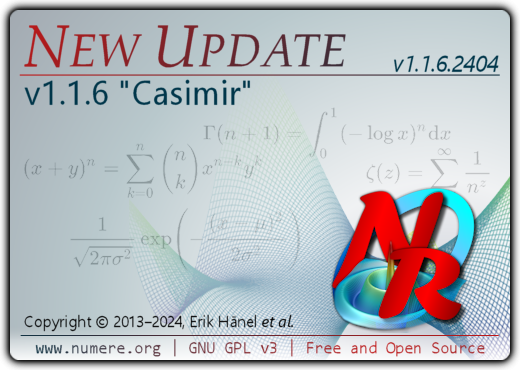
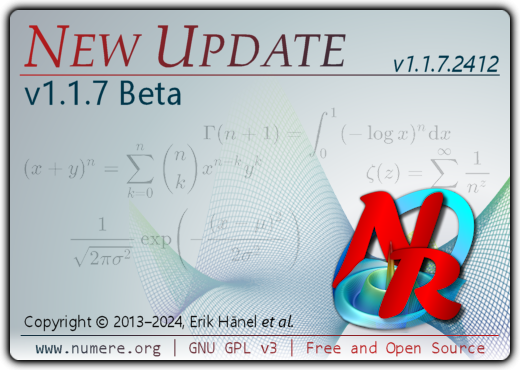
Update files for new release

Changed region(s): [[0.1538, 0.2081, 0.4923, 0.2973], [0.8923, 0.1486, 0.9846, 0.2081], [0.8308, 0.1486, 0.8615, 0.2081]]

diff --git a/files/change_summary_rc.md b/files/change_summary_rc.md
@@ -2,39 +2,39 @@
 
 ## UI changes
 
-- Added feature of autowrapping for comments if line indicator is active.
-- Using the new file dialog and selecting "App", one can create a custom app from some predefined templates
-- The terminal rendering speed was increased, it provides global variables for autocompletion, autocompletion was improved generally
-- The table viewer will now group common table header rows together, creating a virtual hierarchy. Strings are also automatically wrapped around and the grid lines can be hidden
-- Folding has been enabled for LaTeX files and a simple lexer for INI files was added
+- The table viewer was improved and does now provide a categoricaly conditional cell colouring scheme
+- The terminal history has now a search bar
+- It is now possible to hide the main window using `set windowshown=false` and unhide it again. Using `set appautoclose=true`, the app will automatically close itself, once the last open window has been closed. Note that those settings are not saved and only affect NumeRe for the current running session.
 
 ## New and improved functionalities
 
-- `getfilelist()` and `getfolderlist()` may now follow shell links (*.LNK files)
-- `getuilang()` returns the user's current language, `getfilediff()` returns the unified diff of two files, the functions `to_utf8()` and `to_ansi()` can be used to convert to and from UTF-8 encoded strings
-- `vectshift()` and `circshift()` perform element shifts in matrices
-- Weibull probability functions and probability density functions for all distributions
-- Multiple new string functions with corresponding methods: `firstch()`, `lastch()`, `startswith()`, `endswith()`
-- New table methods: `TAB().insertXYZ()`, `TAB().removeXYZ()`, `TAB().reorderXYZ()` (`XYZ` means `rows`, `cols` or `cells`) and `TAB().shrink()`
-- `TAB().convert()` now provides an `"auto"` mode and may now convert more different number formats (notably EU and US separators for decimals and thousands). `TAB().fndcols()` can now be used with regular expressions
-- The `"value"` column type of tables was extended to provide far more different fundamental data types, e.g. `"value.f32"` or `"value.ui8"`. Some file types will now be loaded with the best fitting data type
-- Loading and saving of regular file types with custom file extensions is now possible
-- Procedures can now be called with relative namespaces
-- Conditional expressions in `if` and `while`, which return multiple values, have now all return values being considered (implictly using `and()`)
-- `leave` extends the functionality of `break` by jumping out of all nested control flow statements (with exception of `procedure ... endprocedure`)
-- One can create QR codes with `qrcode`
-- More interaction possibilities to interact with and create custom windows, layouts can now be defined dynamically via strings and custom windows may now be used as dialogs.
+- `remove` may now also remove folders (and folder structures recursively)
+- *k* means clustering is now available as table method `TAB().kmeansof(...)`
+- New functions: `uuid()`, `strjoin()`, `getdisplayscale()`, `is_void()`, `is_equal()`, `is_ordered()`, `is_unique()`
+- New statistical functions: `rms()`, `skew()`, `exc()`, `stderr()`, `inv_pct()`
+- New time-specific functions: `today()`, `get_utc_offset()`, `is_daylightsavingtime()`, `is_leapyear()`
+- New noise functions: `ridgedmulti()`, `billownoise()`, `voronoinoise()`
+- Functions for converting between different numerical data types and for creating categories were added.
+- NumeRe can now interact with databases using the command `database`. Available interfaces for now are: MySQL/MariaDB, SQLite, ODBC. PostGreSQL is *NOT* supported right now due to dependency issues.
+- Table method updates: Table method modifiers `.scwin()` and `.srwin()` have been added and can be used to define a moving window for multi argument functions. Table method handling has been improved and chaining with the new internal method system is now possible. The new table method modifier `.cells()` together with `.rows` or `.cols` allows for selection of table cells along the direction of application.
+- Table columns can now have (physical) units to represent data even better. The units will be detected automatically (if possible), or you can use the dedicated methods to modify the unit of each column.
+- Tables may now be exported in MarkDown and HTML format and it's now also possible to copy only a part of a table to another table at a desired location using `TAB(i1:i2,j1:j2) = TAB2(i1:i2,j1:j1)` syntax.
+- Local variables may now also be declared within control flow blocks. Note that they are only declared for the first time per execution the control reaches their command.
+- Index-based `for` loops can now have an additional condition as their second argument (i.e. `for (i = 1:0, a !=b)`), which is checked before each loop iteration.
+- The interaction between custom windows and the `window` command has been cleaned and improved. Some interactions will now return more fitting data types. It might be possible that this change will break some existing solutions. Furthermore, the `textfield` can now be configured as `type=markup` to support simplified markdown styling.
+- The tabs created with `group -style=tabs ...` in window layouts can now have an ID and an `onchange` event handler firing when the user changes the tab. It is also possible to access the properties of the tab group using `window ... -get` and `window ... -set`.
+- The window command option `options={KEY-VALUE-LIST}` can be used to modify additional window element properties. This option is currently only supported for `tablegrid` elements, where one can change the minimal number of rows and cols.
 
 ## Experimental features
 
-- Conditional breakpoints (available via right-click in the editor)
-- Column headlines are now usable for column indices, i.e. `TABLE(:, "MY-COL-HEADLINE")`
+- Clusters can now be created as hierarchical data structures, i.e. clusters can now contain clusters in their fields. You can use the `.sel(ID)` method for navigating and `.unwrap` to unwrap the whole structure in a single-level cluster. Writing a set of values into a single cluster element will embed them as a sub-structure. Reading this single element, will return the embedded structure.
 
 ## General changes
 
-- We now provide 32 bit and 64 bit versions. The 64 bit version is likely to be faster and more versatile so switching is greatly encouraged
+- The kernel was greatly rewritten and supports much more different types and functionalities. Strange typing problems shouldn't appear any more. Overall performance should be improved (although at the cost that some segments might run slower)
+- We now *only* provide a 64 bit version due to limitations of external libraries
 - We'll now provide an up-to-date PDF documentation with every new release (including this one)
-- File loading was improved in many scenarios
+- A *Report an issue* feature has been added, which you can use even without an GitHub account
 - Many improvements and fixes
 
 The complete list of changes can be found in the ChangesLog.
